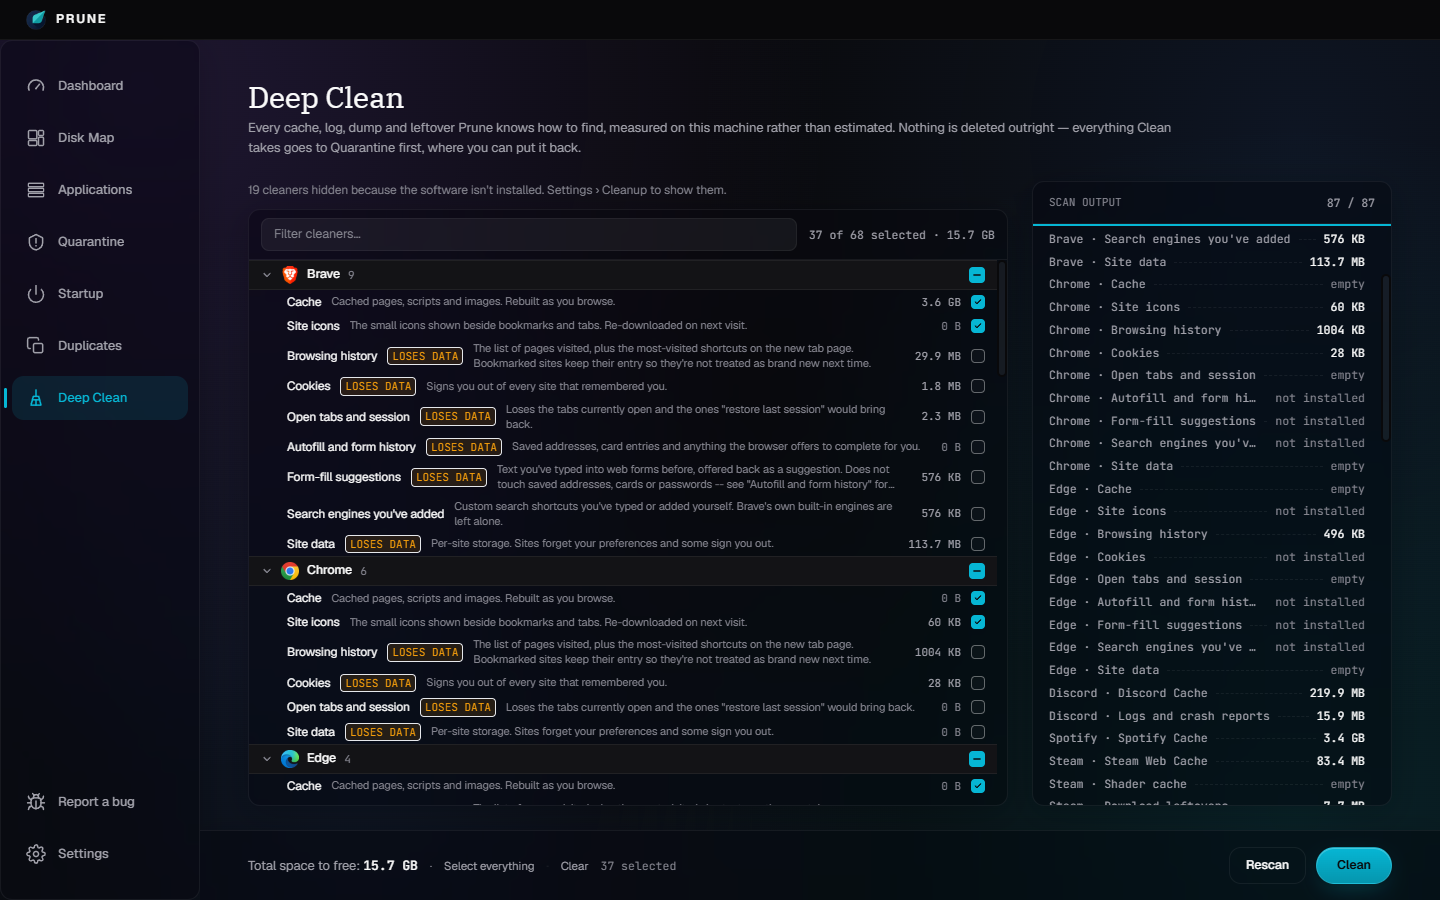
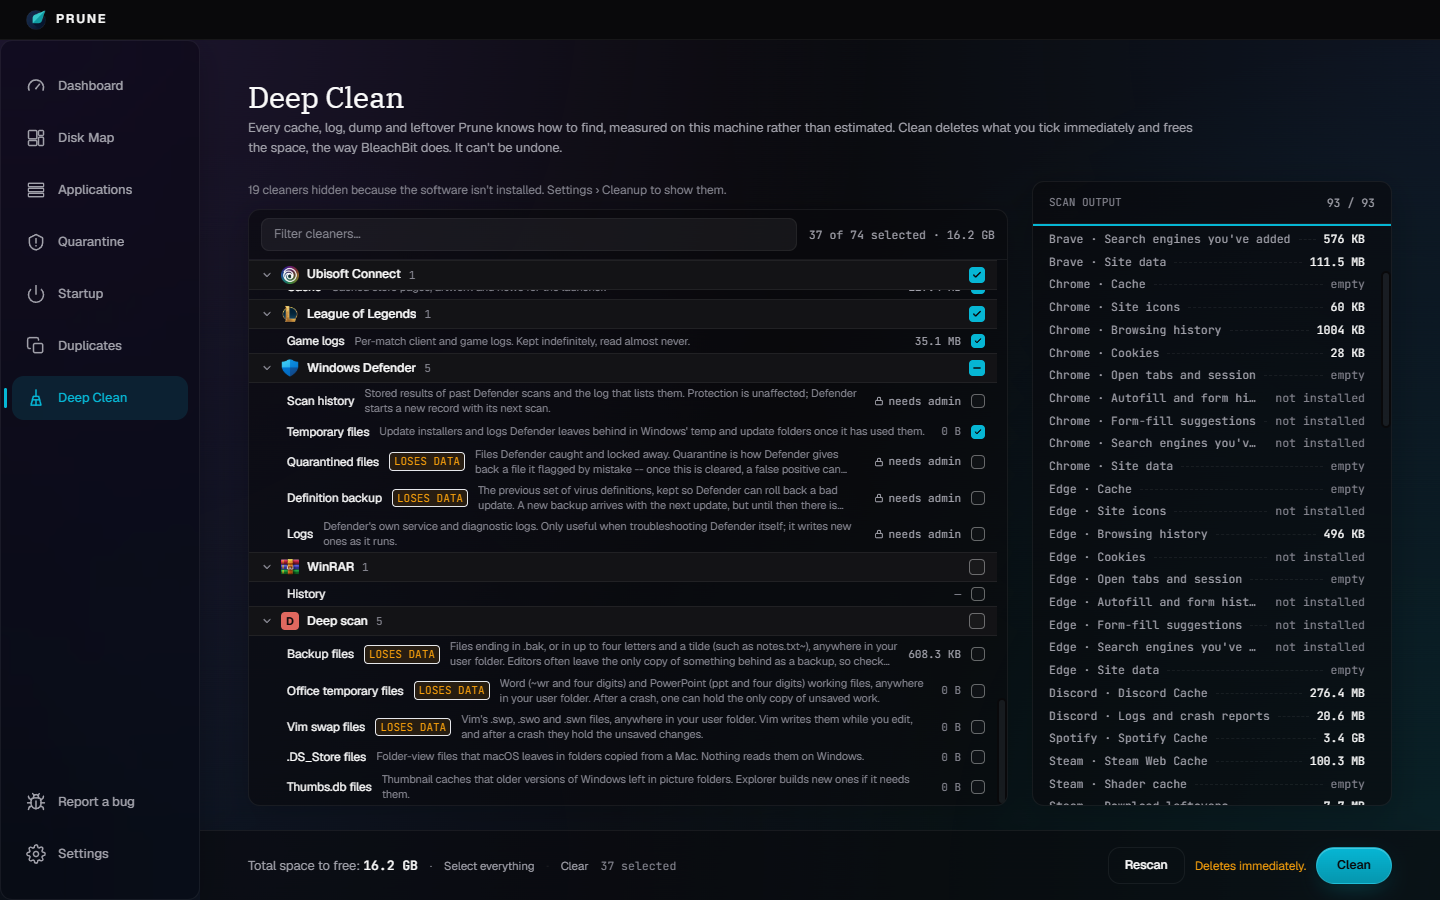
docs: retake the Deep Clean screenshot with Deep scan and Delete now

diff --git a/README.md b/README.md
@@ -202,7 +202,7 @@ anything leaves the app.
 <table>
 <tr>
 <td width="50%"><img src="docs/screenshots/applications-dark.png" alt="The Applications screen: 210 installed programs with real icons, measured sizes, versions and install dates, filterable by Unused, Store, Extensions and Broken" /></td>
-<td width="50%"><img src="docs/screenshots/deep-clean-dark.png" alt="Deep Clean after a scan: measured sizes per rule, a Loses data badge on the ones that sign you out or clear history, a scan log beside the tree, and a line saying 19 cleaners are hidden because that software is not installed" /></td>
+<td width="50%"><img src="docs/screenshots/deep-clean-dark.png" alt="Deep Clean after a scan: measured sizes per rule, a Loses data badge on the ones that sign you out or clear history, the new Deep scan group of backup, Office temp, Vim swap, .DS_Store and Thumbs.db rules, a scan log beside the tree, and a footer saying Deletes immediately when Delete now is chosen" /></td>
 </tr>
 <tr>
 <td align="center"><b>Applications</b><br/><sub>Every hive, plus Store apps and extensions</sub></td>
